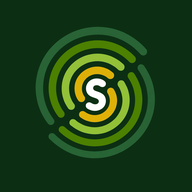
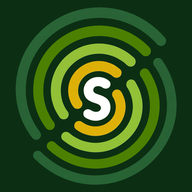
v1.27: アイコンの中心図形を拡大（緑の円を縁近くまで）
- 渦巻きが約92%を占めるようクロップして各サイズ再書き出し(180/192/512/1024/hires)
- 参照 ?v=127／起動画面 1.26→1.27

diff --git a/index.html b/index.html
@@ -5,13 +5,13 @@
 <meta name="viewport" content="width=device-width, initial-scale=1.0, viewport-fit=cover">
 <meta name="apple-mobile-web-app-capable" content="yes">
 <title>しそチャンNET</title>
-<link rel="apple-touch-icon" href="icon-180.png?v=126">
-<link rel="icon" type="image/png" sizes="192x192" href="icon-192.png?v=126">
+<link rel="apple-touch-icon" href="icon-180.png?v=127">
+<link rel="icon" type="image/png" sizes="192x192" href="icon-192.png?v=127">
 <meta name="apple-mobile-web-app-capable" content="yes">
 <meta name="apple-mobile-web-app-status-bar-style" content="black-translucent">
 <meta name="apple-mobile-web-app-title" content="しそチャンNET">
-<link rel="apple-touch-icon" href="icon-180.png?v=126">
-<link rel="icon" type="image/png" sizes="192x192" href="icon-192.png?v=126">
+<link rel="apple-touch-icon" href="icon-180.png?v=127">
+<link rel="icon" type="image/png" sizes="192x192" href="icon-192.png?v=127">
 <style>
 @import url('https://fonts.googleapis.com/css2?family=Noto+Sans+JP:wght@300;400;500;700&family=Zen+Kaku+Gothic+New:wght@300;400;500;700;900&display=swap');
 /* タイトル用フォント コーポレートロゴB（Corporate Logo Bold・OFLベース）。タイトル文字だけにサブセット済(約1KB) */
@@ -789,7 +789,7 @@ body.cursor-hidden,body.cursor-hidden *{cursor:none !important;}
 <div id="power-screen">
   <div style="display:flex;flex-direction:column;align-items:center;gap:0;">
     <div class="ps-logo-main">しそチャン<em>NET</em></div>
-    <div class="ps-version">version 1.26</div>
+    <div class="ps-version">version 1.27</div>
     <div class="ps-test-badge">試験放送中</div>
   </div>
   <div style="height:18px"></div>
